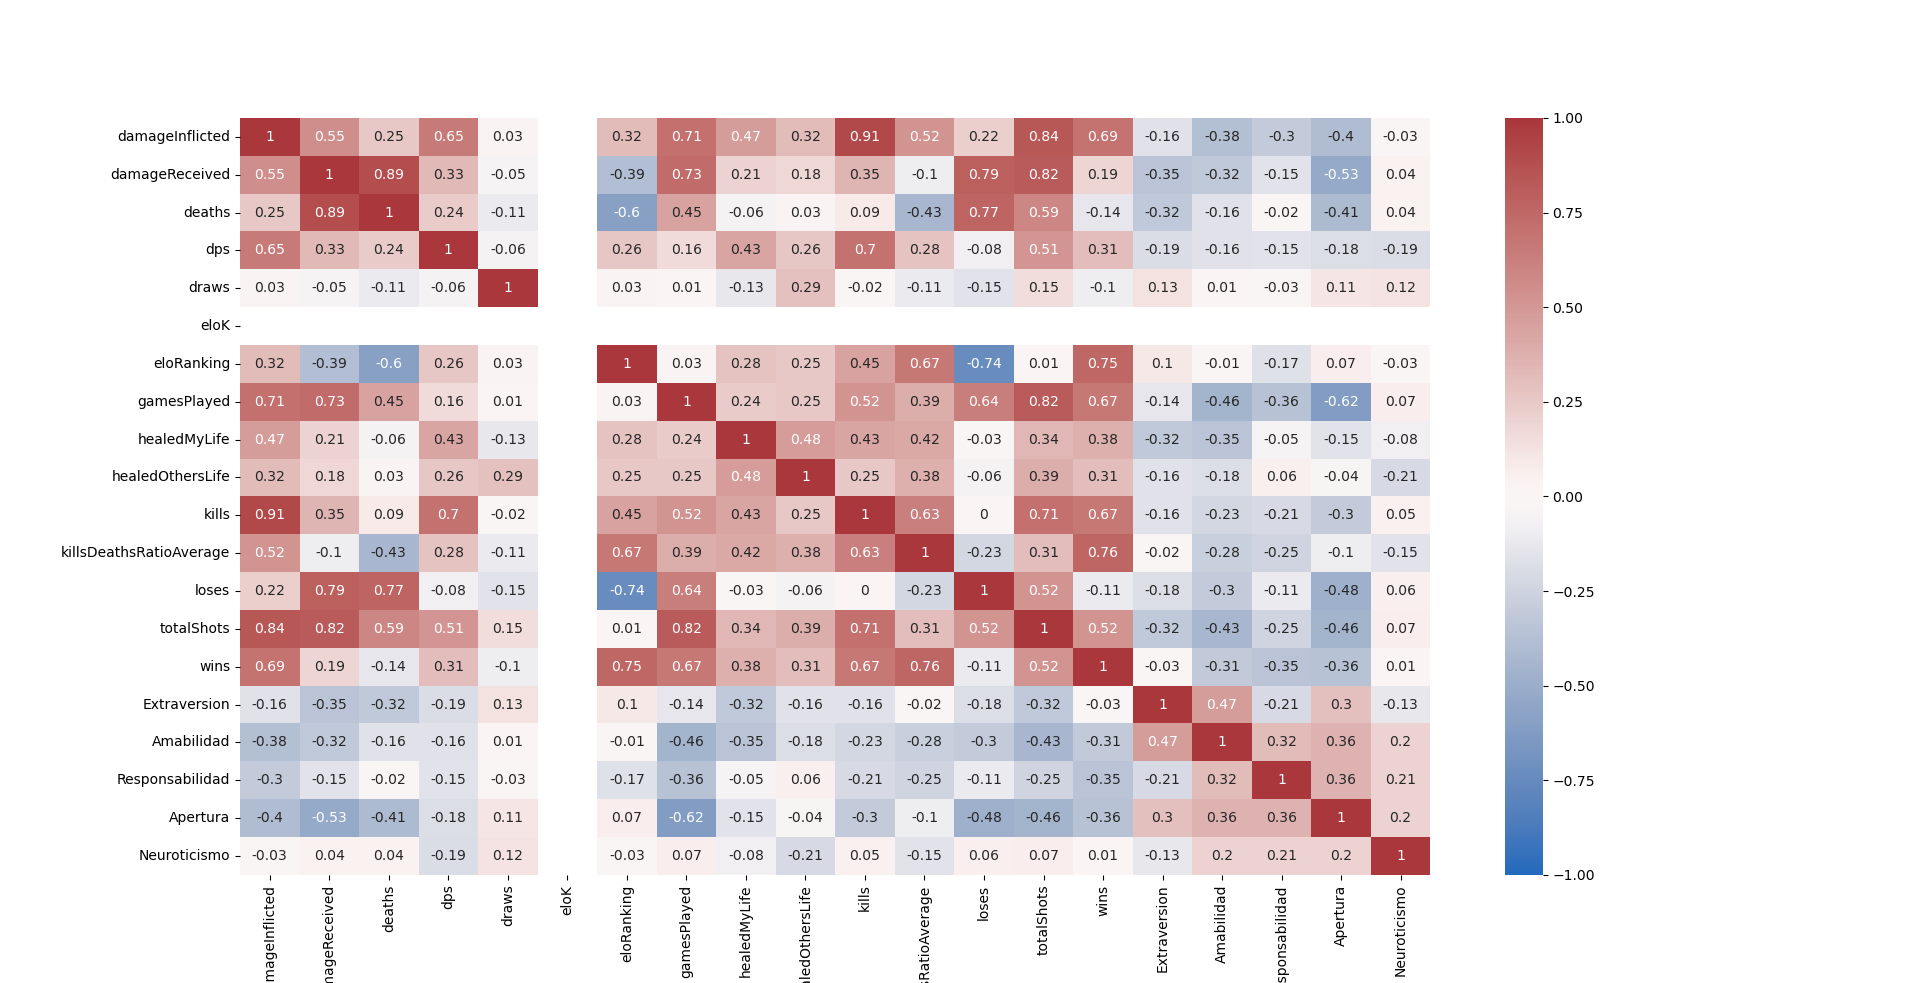
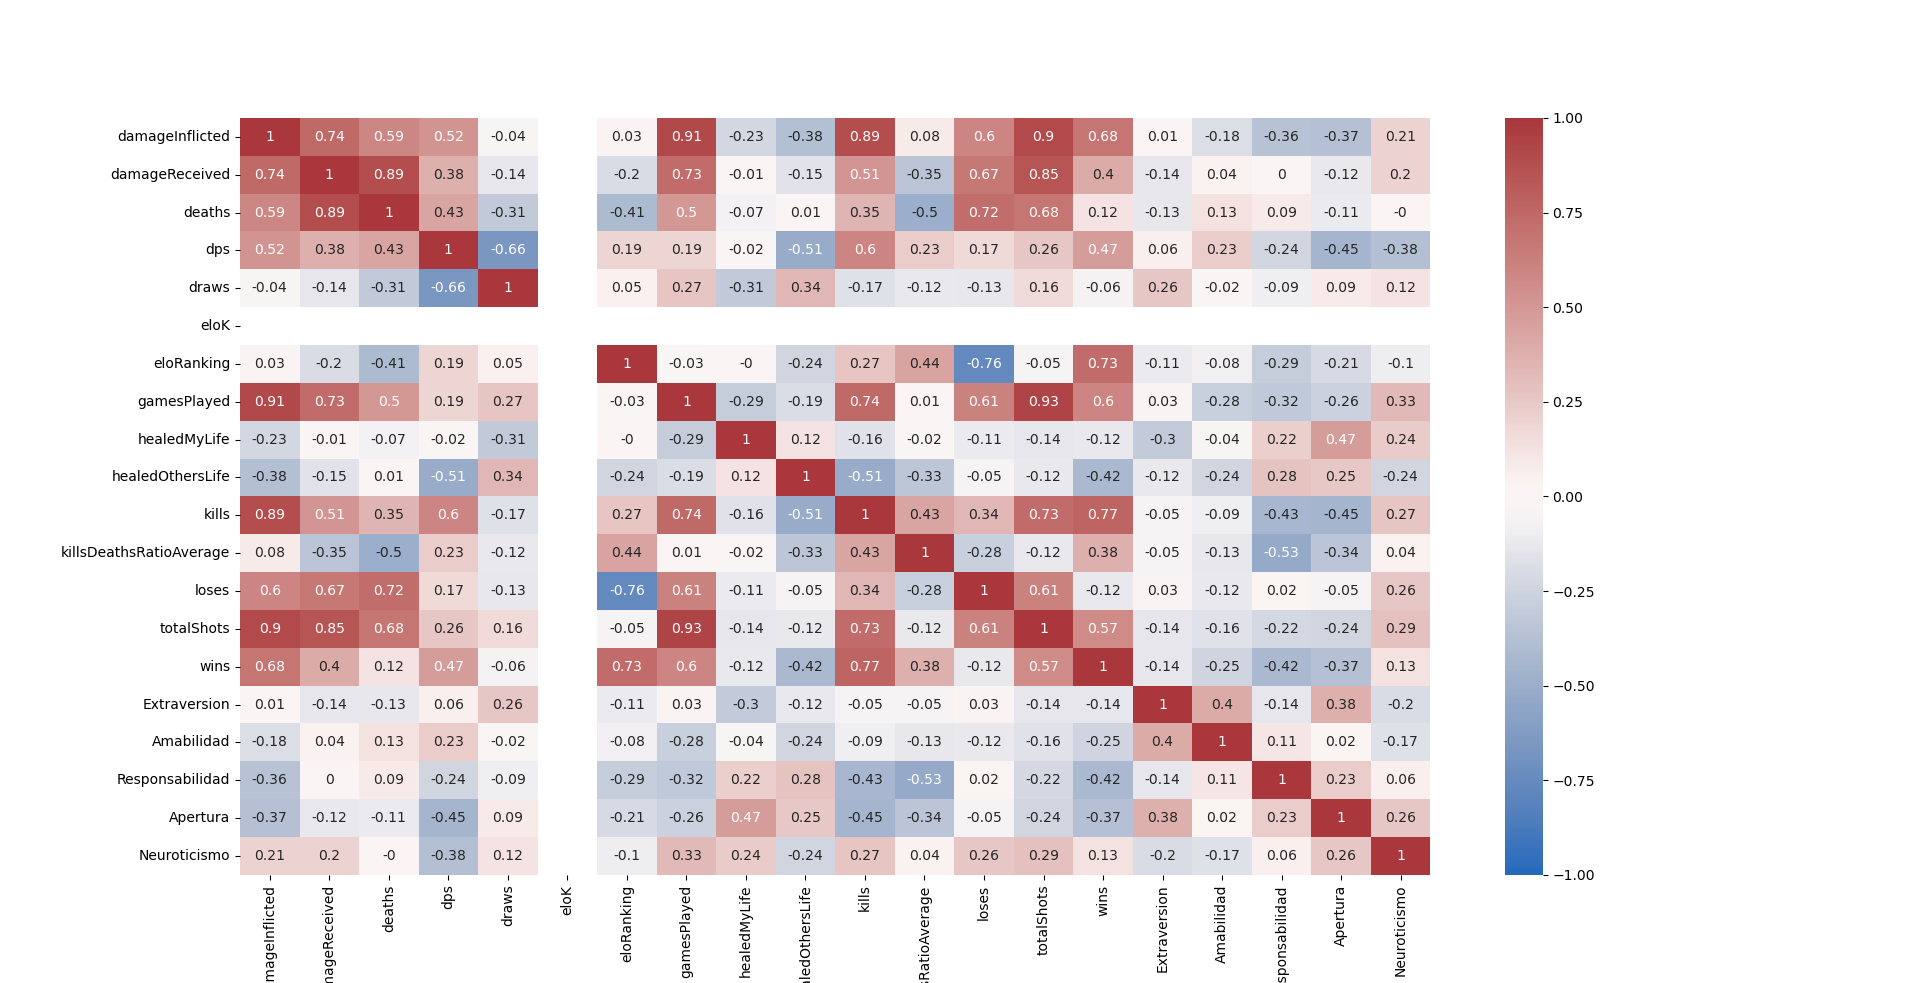
Comentarios en el codigo

diff --git a/Correlacion Python/matrixCorrelation.py b/Correlacion Python/matrixCorrelation.py
@@ -26,10 +26,14 @@ def CorrectString(palabra):
 
 def Firebase(dic, data, user_names):
     for i in data['User']:
-        if i != "Este es mi usuario": # NO USAMOS ESTE ES MI USUARIO POR DEFECTO
+        # NO USAMOS "Este es mi usuario" o Jugadores con 0 partidas jugadas
+        if i != "Este es mi usuario" and data['User'][i]['gamesPlayed'] != 0:
+            # Recorremos atributos del user
             for j in data['User'][i]:
+                # Guardamos los atributos que nos interesan
                 if(j != "userName" and j != "zzlastGameSaved" and j != "email"):
                     dic[j] = np.concatenate((dic[j], [data['User'][i][j]]))
+                # Guardamos los nombres en un array extra
                 elif (j == "userName"):
                     new_name = data['User'][i][j]
                     new_name = CorrectString(new_name)
@@ -77,18 +81,18 @@ def BigFive(dic, user_names, file_name): #'a.csv'
                     dic["Responsabilidad"] =  np.concatenate((dic["Responsabilidad"], [responsabilidad]))
                     dic["Apertura"] = np.concatenate((dic["Apertura"], [apertura]))
                     dic["Neuroticismo"] = np.concatenate((dic["Neuroticismo"], [neuroticismo]))
-                    archivo_csv.seek(0)
+                    archivo_csv.seek(0) # Volvemos al principio del archivo
                     break
 
             if encontrado == False:
                 print("Nombre " + user_name + " no existe en Big Five.")
 
-            archivo_csv.seek(0)
+            archivo_csv.seek(0) # Volvemos al principio del archivo
     return dic
 
 
 def main():
-    firebase_file = 'PruebasMM2.json'
+    firebase_file = 'PruebasMM1.json'
     big_five_file = 'BigFivePrueba1.csv'
     #-------------RECOGIDA DE DATOS----------------
     # df = {
